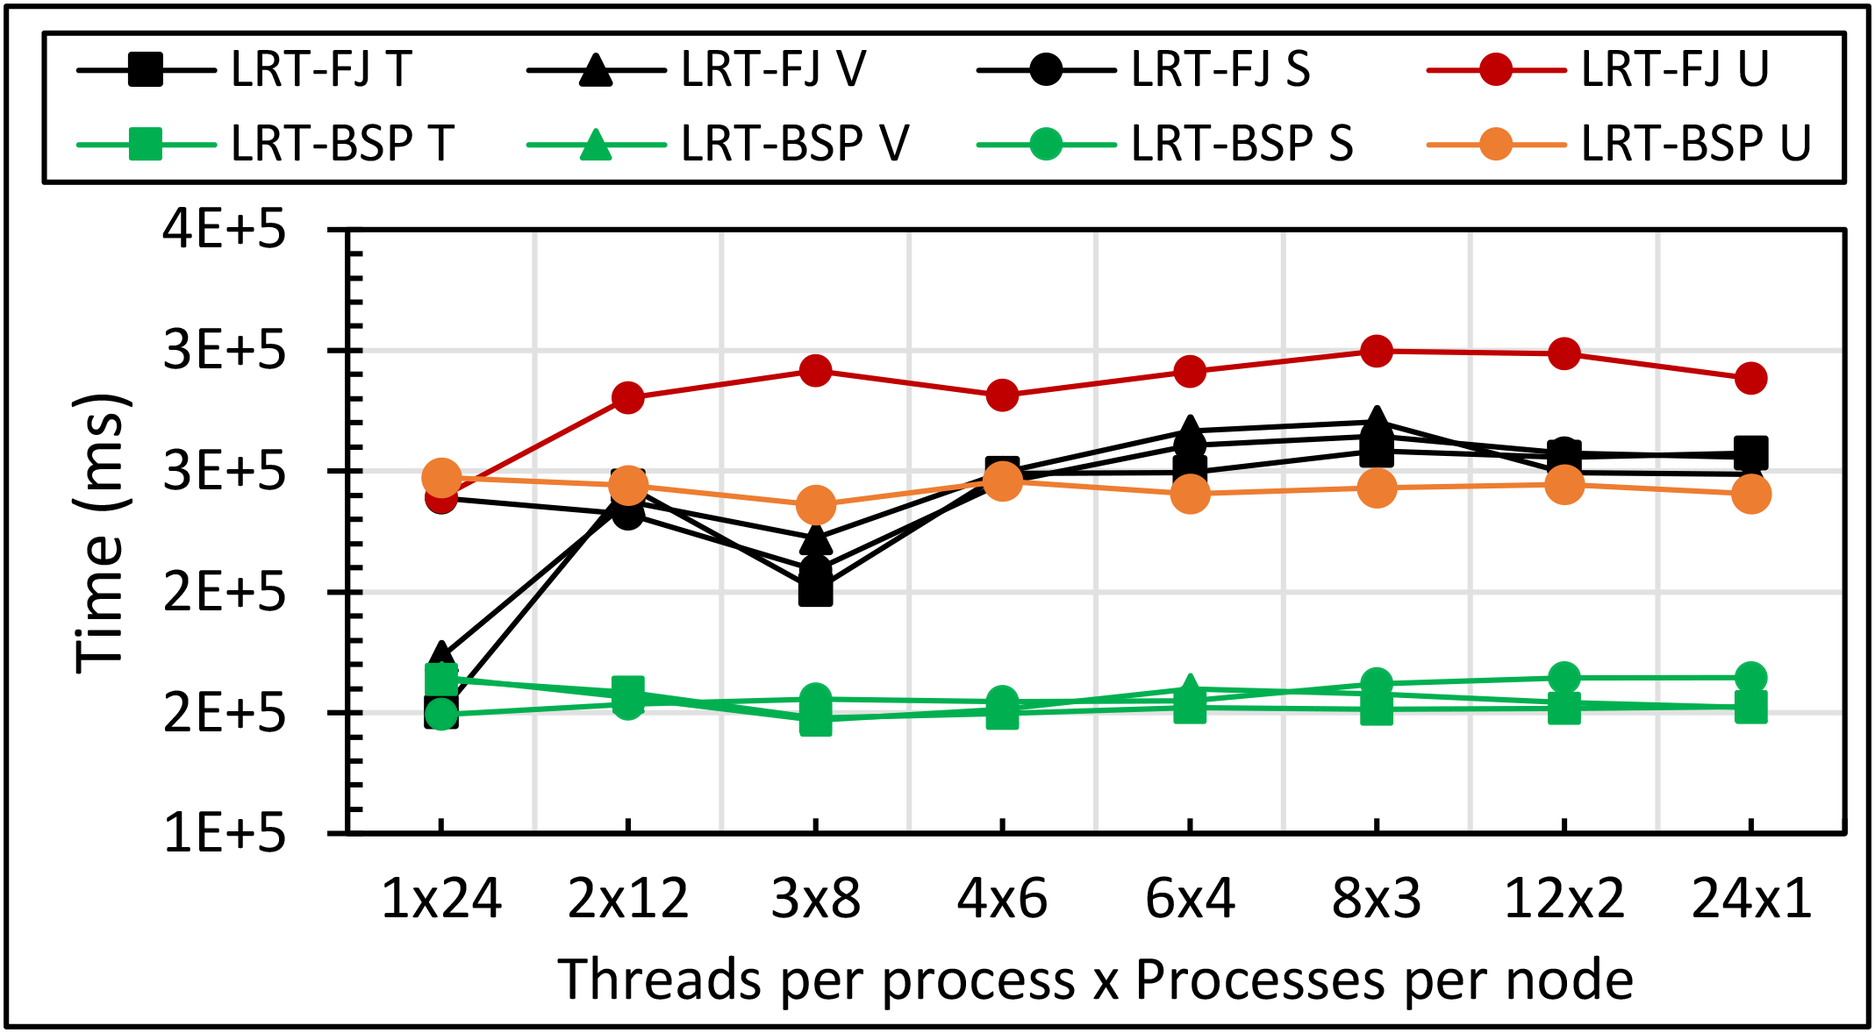
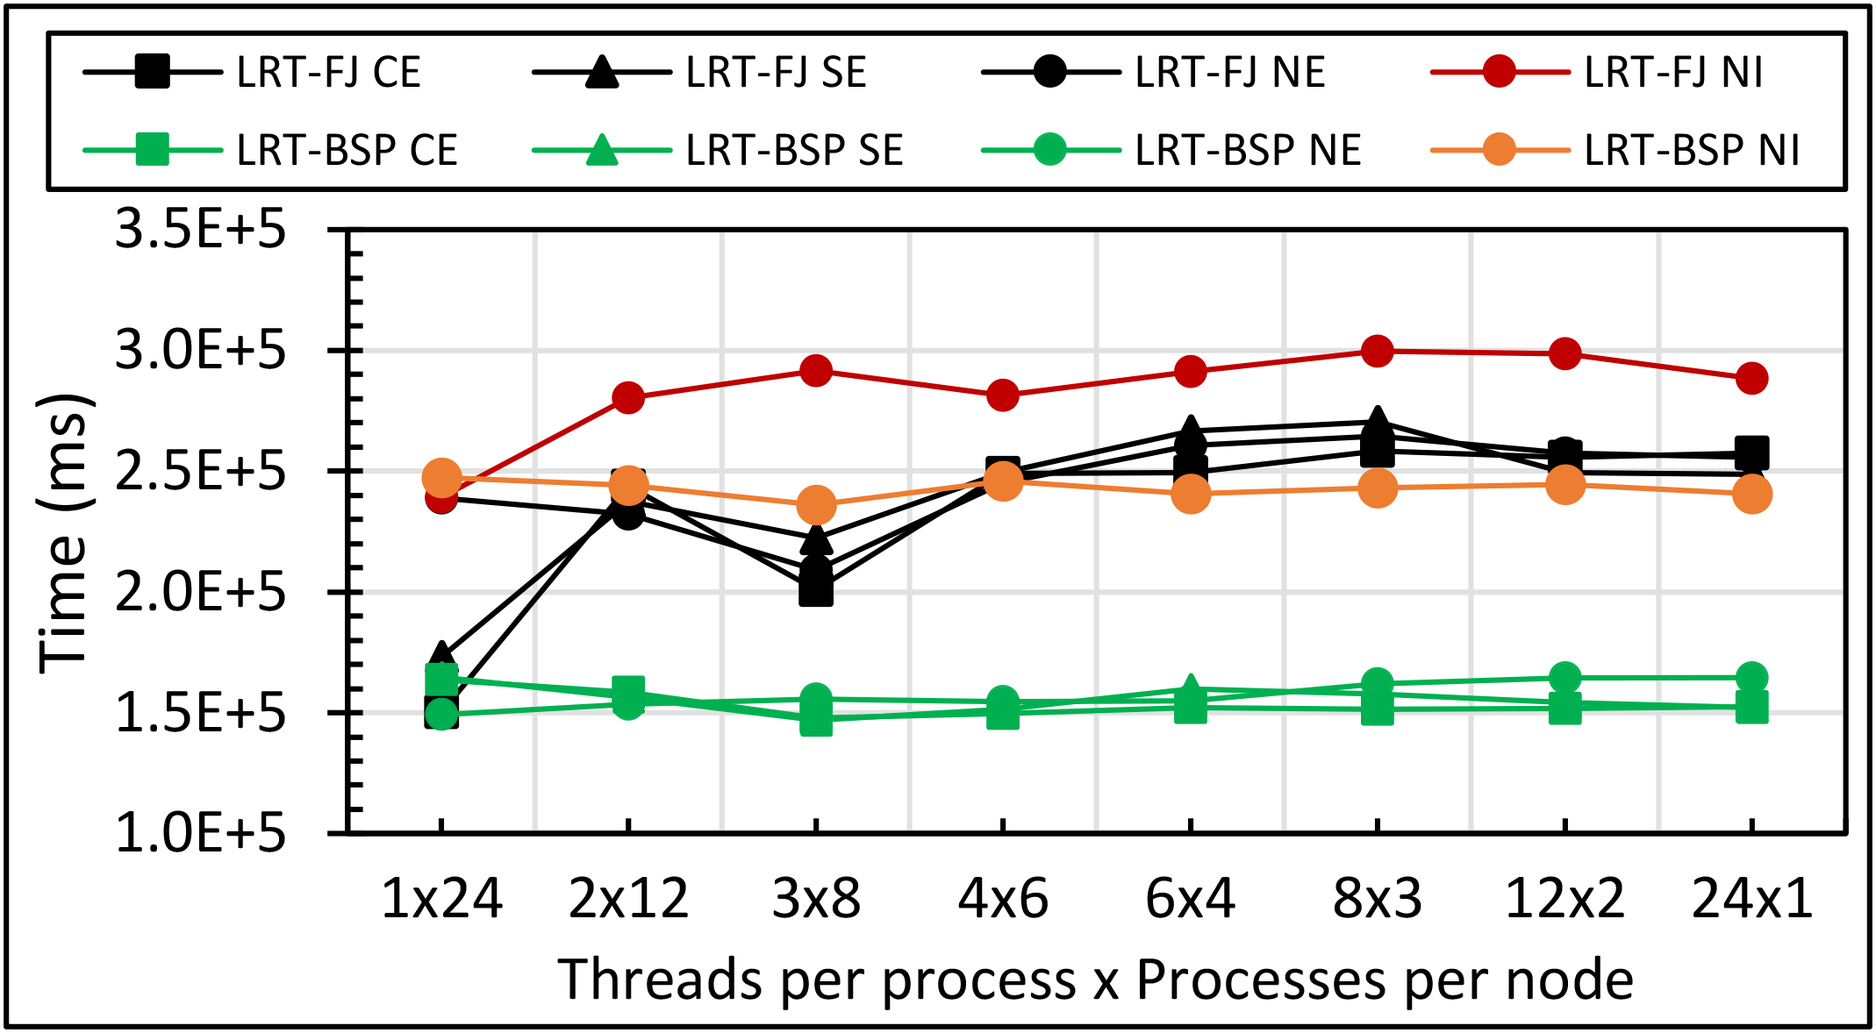
Before making a short paper

diff --git a/ieee.bigdata.2016/2016.ieee.bigdata.tex b/ieee.bigdata.2016/2016.ieee.bigdata.tex
@@ -483,8 +483,8 @@ In supported \acp{OS}, process affinity determines where the \ac{OS} can schedul
 \cline{3-5}
  & \multicolumn{1}{l|}{} & \multicolumn{3}{c|}{\textbf{Process Affinity}} &  \\ \cline{3-5}
  &  & Cores & Socket & None (All) &  \\ \cline{1-5}
-\multicolumn{1}{|c|}{\multirow{2}{*}{\textbf{\begin{tabular}[c]{@{}c@{}}Thread\\ Affinity\end{tabular}}}} & Inherit & Q & R & U &  \\ \cline{2-5}
-\multicolumn{1}{|c|}{} & Explicit per Core & T & V & S &  \\ \cline{1-5}
+\multicolumn{1}{|c|}{\multirow{2}{*}{\textbf{\begin{tabular}[c]{@{}c@{}}Thread\\ Affinity\end{tabular}}}} & Inherit & CI & SI & NI &  \\ \cline{2-5}
+\multicolumn{1}{|c|}{} & Explicit per Core & CE & SE & NE &  \\ \cline{1-5}
 \end{tabular}
 \end{table}
 
@@ -565,19 +565,19 @@ We used a slightly modified version~\footnote{https://github.com/DSC-SPIDAL/spar
     \end{minipage}   
 \end{figure*}
 
-%minipage kmeans Java T vs S | Java vs C
+%minipage kmeans Java CE vs NE | Java vs C
 \begin{figure*}[!htb]
     \begin{minipage}{0.49\textwidth}
         \centering
         \includegraphics[width=1\columnwidth]{images/fig_kmeans_1mil_varying_centers_BSP_T_vs_BSP_S_Java}
-		\caption{Java K-Means \ac{LRT-BSP} affinity T vs S performance for 1 mil points with 1k,10k,50k,100k, and 500k centers on 16 nodes over varying threads and processes.}
+		\caption{Java K-Means \ac{LRT-BSP} affinity CE vs NE performance for 1 mil points with 1k,10k,50k,100k, and 500k centers on 16 nodes over varying threads and processes.}
 		\label{fig:images/fig_kmeans_1mil_varying_centers_BSP_T_vs_BSP_S_Java}
     \end{minipage}
     \hspace{1.4mm}
     \begin{minipage}{0.49\textwidth}
         \centering
         \includegraphics[width=1\columnwidth]{images/fig_kmeans_1mil_varying_centers_BSP_T_C_vs_Java}
-		\caption{Java vs C K-Means \ac{LRT-BSP} affinity T performance for 1 mil points with 1k,10k,50k,100k, and 500k centers on 16 nodes over varying threads and processes.}
+		\caption{Java vs C K-Means \ac{LRT-BSP} affinity CE performance for 1 mil points with 1k,10k,50k,100k, and 500k centers on 16 nodes over varying threads and processes.}
 		\label{fig:images/fig_kmeans_1mil_varying_centers_BSP_T_C_vs_Java}
     \end{minipage}   
 \end{figure*}
@@ -587,14 +587,14 @@ We used a slightly modified version~\footnote{https://github.com/DSC-SPIDAL/spar
 	\begin{minipage}{0.49\textwidth}
         \centering
         \includegraphics[width=1\columnwidth]{images/fig_kmeans_1mil_varying_centers_by_10k_FJ_vs_BSP_T}
-        \caption{Java K-Means 1 mil points with 1k,10k, and 100k centers performance on 16 nodes for \ac{LRT-FJ} and \ac{LRT-BSP} over varying threads and processes. The affinity pattern is T.}
+        \caption{Java K-Means 1 mil points with 1k,10k, and 100k centers performance on 16 nodes for \ac{LRT-FJ} and \ac{LRT-BSP} over varying threads and processes. The affinity pattern is CE.}
         \label{fig:fig_kmeans_1mil_varying_centers_by_10k_FJ_vs_BSP_T}
     \end{minipage}
     \hspace{1.4mm}
     \begin{minipage}{0.49\textwidth}
         \centering
         \includegraphics[width=1\columnwidth]{images/fig_kmeans_1mil_varying_centers_as_50k_500k_FJ_vs_BSP_T}
-        \caption{Java K-Means 1 mil points with 50k, and 500k centers performance on 16 nodes for \ac{LRT-FJ} and \ac{LRT-BSP} over varying threads and processes. The affinity pattern is T.}
+        \caption{Java K-Means 1 mil points with 50k, and 500k centers performance on 16 nodes for \ac{LRT-FJ} and \ac{LRT-BSP} over varying threads and processes. The affinity pattern is CE.}
         \label{fig:fig_kmeans_1mil_varying_centers_as_50k_500k_FJ_vs_BSP_T}
     \end{minipage}
 \end{figure*}
@@ -604,14 +604,14 @@ We used a slightly modified version~\footnote{https://github.com/DSC-SPIDAL/spar
 	\begin{minipage}{0.49\textwidth}
         \centering
         \includegraphics[width=1\columnwidth]{images/fig_damds_50k_binding_patterns}
-        \caption{Java DA-MDS 50k points performance on 16 nodes for \ac{LRT-FJ} and \ac{LRT-BSP} over varying threads and processes. Affinity patterns are T,S,V, and U.}
+        \caption{Java DA-MDS 50k points performance on 16 nodes for \ac{LRT-FJ} and \ac{LRT-BSP} over varying threads and processes. Affinity patterns are CE,NE,SE, and NI.}
         \label{fig:fig_damds_50k_binding_patterns}
     \end{minipage}
     \hspace{1.4mm}
     \begin{minipage}{0.49\textwidth}
         \centering
         \includegraphics[width=1\columnwidth]{images/fig_damds_50k_binding_patterns_on_36core_nodes}
-        \caption{Java DA-MDS 50k points performance on 16 of 36-core nodes for \ac{LRT-FJ} and \ac{LRT-BSP} over varying threads and processes. Affinity patterns are T,S,V, and U.}
+        \caption{Java DA-MDS 50k points performance on 16 of 36-core nodes for \ac{LRT-FJ} and \ac{LRT-BSP} over varying threads and processes. Affinity patterns are CE,NE,SE, and NI.}
         \label{fig:fig_damds_50k_binding_patterns_on_36core_nodes}
     \end{minipage}
 \end{figure*}
@@ -621,14 +621,14 @@ We used a slightly modified version~\footnote{https://github.com/DSC-SPIDAL/spar
 	\begin{minipage}{0.49\textwidth}
         \centering
         \includegraphics[width=1\columnwidth]{images/fig_damds_100k_binding_patterns}
-        \caption{Java DA-MDS 100k points performance on 16 nodes for \ac{LRT-FJ} and \ac{LRT-BSP} over varying threads and processes. Affinity patterns are T,S,V, and U.}
+        \caption{Java DA-MDS 100k points performance on 16 nodes for \ac{LRT-FJ} and \ac{LRT-BSP} over varying threads and processes. Affinity patterns are CE,NE,SE, and NI.}
         \label{fig:fig_damds_100k_binding_patterns}
     \end{minipage}
     \hspace{1.4mm}
     \begin{minipage}{0.49\textwidth}
         \centering
         \includegraphics[width=1\columnwidth]{images/fig_damds_100k_binding_patterns_on_36core_nodes}
-        \caption{Java DA-MDS 100k points performance on 16 of 36-core nodes for \ac{LRT-FJ} and \ac{LRT-BSP} over varying threads and processes. Affinity patterns are T,S,V, and U.}
+        \caption{Java DA-MDS 100k points performance on 16 of 36-core nodes for \ac{LRT-FJ} and \ac{LRT-BSP} over varying threads and processes. Affinity patterns are CE,NE,SE, and NI.}
         \label{fig:fig_damds_100k_binding_patterns_on_36core_nodes}
     \end{minipage}
 \end{figure*}
@@ -645,7 +645,7 @@ We used a slightly modified version~\footnote{https://github.com/DSC-SPIDAL/spar
     \begin{minipage}{0.49\textwidth}
         \centering
         \includegraphics[width=1\columnwidth]{images/fig_damds_200k_binding_patterns_on_36core_nodes}
-        \caption{Java DA-MDS 200k points performance on 16 of 36-core nodes for \ac{LRT-FJ} and \ac{LRT-BSP} over varying threads and processes. Affinity patterns are T,S,V, and U.}
+        \caption{Java DA-MDS 200k points performance on 16 of 36-core nodes for \ac{LRT-FJ} and \ac{LRT-BSP} over varying threads and processes. Affinity patterns are CE,NE,SE, and NI.}
         \label{fig:fig_damds_200k_binding_patterns_on_36core_nodes}
     \end{minipage}
 \end{figure*}
@@ -655,14 +655,14 @@ We used a slightly modified version~\footnote{https://github.com/DSC-SPIDAL/spar
 	\begin{minipage}{0.49\textwidth}
         \centering
         \includegraphics[width=1\columnwidth]{images/fig_kmeans_1mil_varying_centers_Flink_Spark_MPI}
-        \caption{K-Means total and compute times for 1 million 2D points and 1k,10,50k,100k, and 500k centroids for Spark, Flink, and \ac{MPI} Java \ac{LRT-BSP} \texttt{T}. Run on 16 nodes as 24x1.}
+        \caption{K-Means total and compute times for 1 million 2D points and 1k,10,50k,100k, and 500k centroids for Spark, Flink, and \ac{MPI} Java \ac{LRT-BSP} \texttt{CE}. Run on 16 nodes as 24x1.}
         \label{fig:fig_kmeans_1mil_varying_centers_Flink_Spark_MPI}
     \end{minipage}
     \hspace{1.4mm}
     \begin{minipage}{0.49\textwidth}
         \centering
         \includegraphics[width=1\columnwidth]{images/fig_kmeans_100k_varying_centers_Flink_Spark_MPI}
-        \caption{K-Means total and compute times for 100k 2D points and 1k,2k,4k,8k, and 16k centroids for Spark, Flink, and \ac{MPI} Java \ac{LRT-BSP} \texttt{T}. Run on 1 node as 24x1}
+        \caption{K-Means total and compute times for 100k 2D points and 1k,2k,4k,8k, and 16k centroids for Spark, Flink, and \ac{MPI} Java \ac{LRT-BSP} \texttt{CE}. Run on 1 node as 24x1}
         \label{fig:fig_kmeans_100k_varying_centers_Flink_Spark_MPI}
     \end{minipage}
 \end{figure*}
@@ -670,14 +670,14 @@ We used a slightly modified version~\footnote{https://github.com/DSC-SPIDAL/spar
 %perf stat table for LRT-FJ vs LRT-BSP of 100k DA-MDS 18x2x32
 \begin{table}[]
 \centering
-\caption{Linux \texttt{perf} statistics for \ac{DA-MDS} run of 18x2 on 32 nodes. Affinity pattern is \texttt{T}.}
+\caption{Linux \texttt{perf} statistics for \ac{DA-MDS} run of 18x2 on 32 nodes. Affinity pattern is \texttt{CE}.}
 \label{tbl:perf-stats}
 \setlength\extrarowheight{4pt}
 \begin{tabular}{l|r|r|}
 \cline{2-3}
                                                 & \multicolumn{1}{l|}{\textbf{LRT-FJ}} & \multicolumn{1}{l|}{\textbf{LRT-BSP}} \\ \hline
 \multicolumn{1}{|l|}{\textbf{Context Switches}} & 477913                               & 31433                                 \\ \hline
-\multicolumn{1}{|l|}{\textbf{CPU Migrations}}   & 63953                                & 31433                                 \\ \hline
+\multicolumn{1}{|l|}{\textbf{CPU Migrations}}   & 63953                                & 864                                 \\ \hline
 \multicolumn{1}{|l|}{\textbf{dTLB load misses}} & 17226323                             & 6493703                               \\ \hline
 \end{tabular}
 \end{table}
@@ -718,18 +718,18 @@ The experiments were run on Juliet, which is an Intel Haswell \ac{HPC} cluster w
 \subsection{MPI Java and C K-Means}
 \figurename~\ref{fig:fig_kmeans_1mil_1k_binding_patterns} and \figurename~\ref{fig:fig_C_kmeans_1mil_1k_binding_patterns} show K-Means Java and C total runtime for 1 million 2D points and 1000 centroids respectively. Each figure presents performance of both \ac{LRT-FJ} and \ac{LRT-BSP} models over the six binding patterns identified in Table ~\ref{tbl:affinity_patterns}. These were run on 24-core nodes; hence the abscissa shows all the eight possible combinations of threads and processes within a node to exploit the full 24-way parallelism. The left most pattern, 1x24, indicates all processes and the right most pattern, 24x1 indicates all threads within a node. Note, patterns 8x3 and 24x1 imply that processes span across \ac{NUMA} memory boundaries, which is known to be inefficient but presented here for completeness. The red and orange lines represent inherited thread affinity for \ac{LRT-FJ} and \ac{LRT-BSP} respectively. Similarly, the black and green lines illustrate explicit thread pinning, each to a core, for these two thread models. 
 
-Java results suggest \ac{LRT-FJ} is the worst whatever the affinity strategy for any pattern other than 1x24, which is all \ac{MPI} and does not use thread parallel regions. A primary reason for this poor performance is the thread scheduling overhead in Java as \ac{FJ} threads are short-activated. Also, the \ac{JVM} spawns extra bookkeeping threads for \ac{GC} and other tasks, which compete for \acs{CPU} resources as well. Of the \ac{LRT-BSP} lines, the unbound threads (\texttt{U}) show the worst performance. Affinity patterns \texttt{S} and \texttt{T} seem to give the best runtime with increasing number of threads. 
+Java results suggest \ac{LRT-FJ} is the worst whatever the affinity strategy for any pattern other than 1x24, which is all \ac{MPI} and does not use thread parallel regions. A primary reason for this poor performance is the thread scheduling overhead in Java as \ac{FJ} threads are short-activated. Also, the \ac{JVM} spawns extra bookkeeping threads for \ac{GC} and other tasks, which compete for \acs{CPU} resources as well. Of the \ac{LRT-BSP} lines, the unbound threads (\texttt{NI}) show the worst performance. Affinity patterns \texttt{NE} and \texttt{CE} seem to give the best runtime with increasing number of threads. 
 
 C results show the same behavior for unbounded and explicitly bound threads. The two thread models, however, show similar performance, unlike Java. Further investigation of this behavior revealed OpenMP threads keep the \acsp{CPU} occupied at 100\% between \ac{FJ} regions suggesting OpenMP internally optimizes threads similar to the Java \ac{LRT-BSP} implementation introduced in this paper.
 
-\figurename~\ref{fig:images/fig_kmeans_1mil_varying_centers_BSP_T_vs_BSP_S_Java} illustrates the effect of affinity patterns \texttt{T} and \texttt{S} for varying data sizes on \ac{LRT-BSP}. They performed similar to each other, but numbers favor pattern \texttt{T} over \texttt{S}.
+\figurename~\ref{fig:images/fig_kmeans_1mil_varying_centers_BSP_T_vs_BSP_S_Java} illustrates the effect of affinity patterns \texttt{CE} and \texttt{NE} for varying data sizes on \ac{LRT-BSP}. They performed similar to each other, but numbers favor pattern \texttt{CE} over \texttt{NE}.
 
 \figurename~\ref{fig:images/fig_kmeans_1mil_varying_centers_BSP_T_C_vs_Java} compares Java and C \ac{LRT-BSP} runtimes for K-Means over varying data sizes across thread and process combinations. Results demonstrate Java performance is on par with C. Also, sometimes Java outperform C, mostly due to \ac{JIT} optimizations, as seen in the figure for 500k centers. 
 
-\figurename~\ref{fig:fig_kmeans_1mil_varying_centers_by_10k_FJ_vs_BSP_T} and \figurename~\ref{fig:fig_kmeans_1mil_varying_centers_as_50k_500k_FJ_vs_BSP_T} showcase \ac{LRT-FJ} and \ac{LRT-BSP} performance over varying data sizes for affinity pattern \texttt{T}. In \figurename~\ref{fig:fig_kmeans_1mil_varying_centers_by_10k_FJ_vs_BSP_T}, the number of centroids were incremented as 1k,10k, and 100k. \ac{LRT-BSP} shows constant performance across thread and process combinations for all data sizes, where as \ac{LRT-FJ} exhibits abysmal performance with increasing threads and data sizes. \figurename~\ref{fig:fig_kmeans_1mil_varying_centers_as_50k_500k_FJ_vs_BSP_T} replicates the same experiment for data sizes 50k and 500k. Again, the results agree with those of \figurename~\ref{fig:fig_kmeans_1mil_varying_centers_by_10k_FJ_vs_BSP_T}.
+\figurename~\ref{fig:fig_kmeans_1mil_varying_centers_by_10k_FJ_vs_BSP_T} and \figurename~\ref{fig:fig_kmeans_1mil_varying_centers_as_50k_500k_FJ_vs_BSP_T} showcase \ac{LRT-FJ} and \ac{LRT-BSP} performance over varying data sizes for affinity pattern \texttt{CE}. In \figurename~\ref{fig:fig_kmeans_1mil_varying_centers_by_10k_FJ_vs_BSP_T}, the number of centroids were incremented as 1k,10k, and 100k. \ac{LRT-BSP} shows constant performance across thread and process combinations for all data sizes, where as \ac{LRT-FJ} exhibits abysmal performance with increasing threads and data sizes. \figurename~\ref{fig:fig_kmeans_1mil_varying_centers_as_50k_500k_FJ_vs_BSP_T} replicates the same experiment for data sizes 50k and 500k. Again, the results agree with those of \figurename~\ref{fig:fig_kmeans_1mil_varying_centers_by_10k_FJ_vs_BSP_T}.
 
 \subsection{MPI Java \ac{MDS}}
-\figurename~\ref{fig:fig_damds_50k_binding_patterns} through \figurename~\ref{fig:fig_damds_200k_binding_patterns_on_36core_nodes} illustrate \ac{DA-MDS} performance for data sizes 50k, 100k, and 200k on 24-core and 36-core nodes. Each figure presents \ac{DA-MDS} runtime for the two thread models and affinity patterns \texttt{T}, \texttt{V}, \texttt{S}, and \texttt{U}. Patterns \texttt{Q} and \texttt{R} were omitted as they showed similar abysmal performance as \texttt{U} in earlier K-Means results. Thread and process combinations for 24-core nodes are as same as the ones used in K-Means experiments. On 36-core nodes, nine patterns were tested from 1x36 to 36x1. However, as \ac{LRT-BSP} allocates data for all threads at process level, 200k decomposition over 16 nodes produced more data than what Java 1D arrays could hold. Therefore, this pattern could not be tested for 200k data. \ac{LRT-BSP} did not face this situation as data structures are local to threads and each allocates only data required for the thread, which is within Java's array limit of $2^{31} - 1$ elements.
+\figurename~\ref{fig:fig_damds_50k_binding_patterns} through \figurename~\ref{fig:fig_damds_200k_binding_patterns_on_36core_nodes} illustrate \ac{DA-MDS} performance for data sizes 50k, 100k, and 200k on 24-core and 36-core nodes. Each figure presents \ac{DA-MDS} runtime for the two thread models and affinity patterns \texttt{CE}, \texttt{SE}, \texttt{NE}, and \texttt{NI}. Patterns \texttt{CI} and \texttt{SI} were omitted as they showed similar abysmal performance as \texttt{NI} in earlier K-Means results. Thread and process combinations for 24-core nodes are as same as the ones used in K-Means experiments. On 36-core nodes, nine patterns were tested from 1x36 to 36x1. However, as \ac{LRT-BSP} allocates data for all threads at process level, 200k decomposition over 16 nodes produced more data than what Java 1D arrays could hold. Therefore, this pattern could not be tested for 200k data. \ac{LRT-BSP} did not face this situation as data structures are local to threads and each allocates only data required for the thread, which is within Java's array limit of $2^{31} - 1$ elements.
 
 The above results confirm that Java \ac{LRT-FJ} has the lowest performance irrespective of the binding, data size or the number of threads. On the other hand, the \ac{LRT-BSP} model produced constant high performance across all these parameters. Investigating these effects further, an 18x2 run for 100k data produced the \texttt{perf} stats in Table~\ref{tbl:perf-stats}, which show a vast number of context switches, \acs{CPU} migrations, and \acl{dTLB} load misses for \ac{LRT-FJ} compared to \ac{LRT-FJ}. These statistics are directly related with performance and hence explain the poor performance of \ac{LRT-FJ} model.
 
@@ -745,7 +745,7 @@ Since the communication overhead was dominant in K-Means algorithm, we performed
 % %perf stat table for LRT-FJ vs LRT-BSP of 100k DA-MDS 18x2x32
 % \begin{table}[]
 % \centering
-% \caption{Linux \texttt{perf} statistics for \ac{DA-MDS} run of 18x2 on 32 nodes. Affinity pattern is \texttt{T}.}
+% \caption{Linux \texttt{perf} statistics for \ac{DA-MDS} run of 18x2 on 32 nodes. Affinity pattern is \texttt{CE}.}
 % \label{tbl:perf-stats}
 % \begin{tabular}{l|r|r|}
 % \cline{2-3}
@@ -797,9 +797,9 @@ Much research has been done on how to get better performance on multicore cluste
 
 Because of the high number of cores available in multicore nodes, hybrid communication models involving shared memory communication and network communication are preferred. In these models, the tasks within a node first communicate using shared memory and then the results are forwarded to other nodes in the cluster. Previous work by the authors~\cite{hpc2016:spidaljava} focused on improving the collective communications for Java machine learning algorithms using this hybrid approach. 
 
-Hadoop~\cite{lam2010hadoop} became the first widely used system for big data processing and it uses a disk based communication among tasks with HDFS. Hadoop offers only the Map and Reduce  dataflow operations. The later systems such as Twiste~\cite{Ekanayake:2010:TRI:1851476.1851593}, Spark, Flink and Google Cloud Dataflow~\cite{akidau2015dataflow} are using in-memory and network communications among the tasks and are offering a rich set of data-flow operations compared to Hadoop. Bacause of the way communication is handled Spark and Flink, they are much closer to \ac{MPI} in run-time and can use the advanced communication features in MPI. 
+Hadoop~\cite{lam2010hadoop} became the first widely used system for big data processing and it uses a disk based communication among tasks with HDFS. Hadoop offers only the Map and Reduce  dataflow operations. The later systems such as Twister~\cite{Ekanayake:2010:TRI:1851476.1851593}, Spark, Flink and Google Cloud Dataflow~\cite{akidau2015dataflow} are using in-memory and network communications among the tasks and are offering a rich set of data-flow operations compared to Hadoop. Bacause of the way communication is handled Spark and Flink, they are much closer to \ac{MPI} in run-time and can use the advanced communication features in MPI. 
 
-These big data frameworks follow the  dataflow model and the equivalent of collective communications in \ac{MPI} are implemented as  dataflow operators. These implementations are elegant but inefficient compared to the optimized collective communication algorithms implemented in MPI~\cite{pjevsivac2007performance, thakur2005optimization}. Recent work by the authors~\cite{kamburugamuve2016towards} have improved communications of Apache Storm streaming framework with classical collective algorithms found in \ac{MPI} implementations. Harp~\cite{zhang2015harp} is a collective communication framework developed for Hadoop to speed up the machine learning applications. There has being efforts to bring HPC enhancements such as RDMA~\cite{lu2013high} to big data frameworks and these have given excellent performance in HPC environments.
+These big data frameworks follow the  dataflow model and the equivalent of collective communications in \ac{MPI} are implemented as  dataflow operators. These implementations are elegant but inefficient compared to the optimized collective communication algorithms implemented in MPI~\cite{pjevsivac2007performance, thakur2005optimization}. Recent work by the authors~\cite{kamburugamuve2016towards} have improved communications of Apache Storm streaming framework with classical collective algorithms found in \ac{MPI} implementations. Harp~\cite{zhang2015harp} is a collective communication framework developed for Hadoop to speed up the machine learning applications. There has being efforts to bring HPC enhancements such as RDMA~\cite{lu2013high} ASDAto big data frameworks and these have given excellent performance in HPC environments.
 
 Our findings are in the spirit of HPC-ABDS (the High Performance Computing enhanced Apache Big Data Stack)~\cite{kaleidoescope} and help establish a Big Data - HPC convergence approach~\cite{fox1858big}.
 

diff --git a/ieee.bigdata.2016/acronyms.tex b/ieee.bigdata.2016/acronyms.tex
@@ -27,4 +27,5 @@
 \acrodef{API}{Application Programming Interface}
 \acrodef{JIT}{Just In Time}
 \acrodef{RDD}{Resilient Distributed Dataset}
+\acrodef{HTML}{Hypertext Markup Language}
 \acused{HTML}
